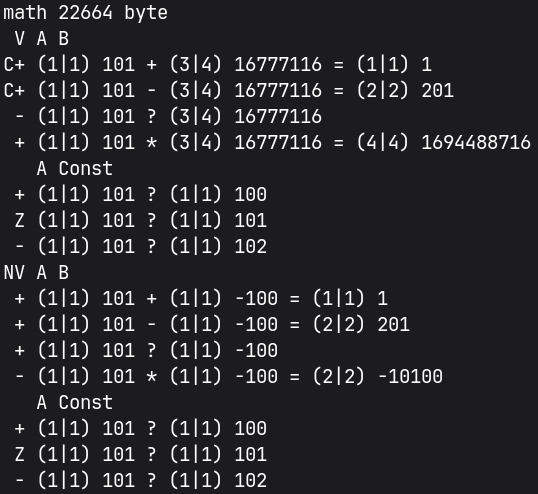
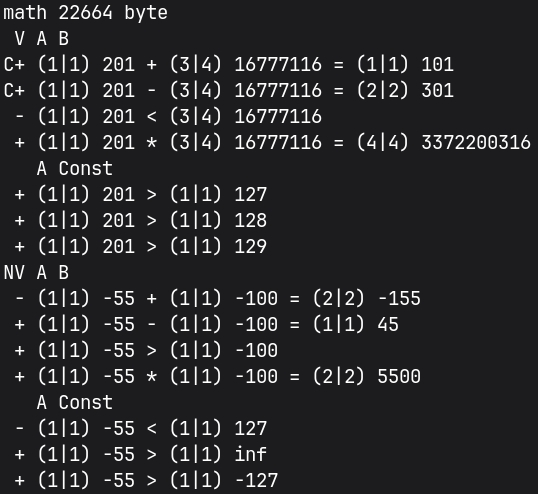
v17.4

diff --git a/main.c b/main.c
@@ -12,22 +12,23 @@
 #define m 128
 anu la,lb;
 
-void Num(anu s, an a) { anu ns, t[m]; if (s > 8) { printf(" %d|? ", s + 1); return; }
-  printf("(%d|%d) ", s + 1, (ns = FCOLD(Obe, s, (an)t, a)) + 1); a = (an)t; if (Mat.F == 2) { printf("inf "); return; }
-  if (Mat.Nim) { if (ns > 3) printf("%ld " , *(int64_t*)a); else if (ns > 1) printf("%d ", *(int32_t*)a);
+void Num(anu s, an a) { anu ns, t[m], f = Mat.F, n = Mat.N; if (s > 8) { printf(" %d|? ", s + 1); return; }
+  printf("(%d|%d) ", s + 1, (ns = FCOLD(Obe, s, (an)t, a)) + 1); a = (an)t; if (Mat.F == 2) printf("inf ");
+  else { if (Mat.Nim) { if (ns > 3) printf("%ld " , *(int64_t*)a); else if (ns > 1) printf("%d ", *(int32_t*)a);
     else if (ns) printf("%d ", *(int16_t*)a); else printf("%d ", *(int8_t*)a); }
   else { if (ns > 3) printf("%lu ", *(uint64_t*)a); else if (ns > 1) printf("%u ", *(uint32_t*)a);
-    else if (ns) printf("%u ", *(uint16_t*)a); else printf("%u ", *(uint8_t*)a); } }
+    else if (ns) printf("%u ", *(uint16_t*)a); else printf("%u ", *(uint8_t*)a); } } Mat.F = f; Mat.N = n; }
 void Show(char s) { Flong(la,lb); Mat.C = 0;
   if (s == '+') FAdd(Mat.R, Mat.A); else if (s == '-') FSub(Mat.R, Mat.A); else if (s == '*') FMul(Mat.R, Mat.A);
-  else if (s == '/') FDiv(Mat.R, Mat.A, Mat.E); else if (s == '?') FCmp(Mat.A); else FCmpc(Mat.A, 100);
-  printf("%c%c ", Mat.C ? 'C':' ', Mat.F ? (Mat.N ? 'I':'Z') : (Mat.N ? '-':'+')); Num(la, Mat.A);
-  if (s == 'c') printf("? "); else { printf("%c ", s); } Num(Mat.lb, Mat.b); if (s < '?') { printf("= "); Num(Mat.l, Mat.R);
-  if (s == '/') { printf("  %c ", Mat.Fe ? (Mat.Ne ? 'I':'Z') : (Mat.Ne ? '-':'+')); Num(Mat.le, Mat.E); } } printf("\n"); }
+  else if (s == '/') FDiv(Mat.R, Mat.A, Mat.E); else if (s == '?') FCmp(Mat.A); else FCmpc(Mat.A, 127);
+  printf("%c%c ", Mat.C ? 'C':' ', Mat.F ? Mat.N ? 'I':'Z':Mat.N ? '-':'+'); Num(la, Mat.A);
+  if (s == '?' || s == 'c') printf("%c ", Mat.N ? '<':Mat.F ? '=':'>'); else { if (s == 'c') printf("? "); else printf("%c ", s); }
+  Num(Mat.lb, Mat.b); if (s < '?') { printf("= "); Num(Mat.l, Mat.R); if (s == '/') {
+    printf("  %c ", Mat.Fe ? (Mat.Ne ? 'I':'Z') : (Mat.Ne ? '-':'+')); Num(Mat.le, Mat.E); } } printf("\n"); }
 void Const(void) { an sb; anu l, i = 2; printf("   A Const\n"); Show('c'); sb = Mat.B;
   Mat.B = Mat.b; l = lb; lb = Mat.lb; while(i--) { if (!++(*Mat.B) && lb) { (*(Mat.B + 1))++; } Show('?'); } Mat.B = sb; lb = l; }
 void Test(void) { printf("%c%c A B\n", Mat.Nim ? 'N':' ', Mat.V ? 'V':' '); Show('+'); Show('-'); Show('?'); Show('*'); Const(); }
 
 int main(void) { anu v = 1,a[m],b[m],e[m],r[m+m]; Faddr((As)r, (As)e, (As)a, (As)b);
-  Fini(0,v); la = Fbvi(Mat.A, 0,101); lb = Fvi(Mat.B, -100,255,255); Test();
+  Fini(0,v); la = Fbvi(Mat.A, -55); lb = Fvi(Mat.B, -100,255,255); Test();
   Fset(1,v); la = Fmov(la, Mat.A); lb = Fmov(lb, Mat.B); Test(); return 0; }

diff --git a/math.c b/math.c
@@ -73,7 +73,7 @@ void FSUB(an r, an a, anu l, an b) { Mat.N = l; Mat.r = r; Mat.a = a; Mat.b = b;
   if (!Mat.V && Mat.l < Mat.N) { Mat.be = Mat.b + Mat.N;
     while(*Mat.be-- == Mat.nb && Mat.N && !((*Mat.be ^ Mat.nb) & 128)) { Mat.N--; }
     if (Mat.l < Mat.N) { if (Mat.Nim) { Mat.F = 2; Mat.N = 255; Mat.C = 0; Mat.i = Mat.l;
-      while(Mat.i--) { *Mat.r++ = 0; } *Mat.r = 128; return; } Mat.j++; Mat.N = Mat.l; } }
+      while(Mat.i--) { *Mat.r++ = 0; } *Mat.r = 128; return; } Mat.j = 4; Mat.N = Mat.l; } }
   Mat.be = Mat.b; Mat.i = (Mat.F > Mat.N) ? Mat.N:Mat.F; Mat.F -= Mat.i; Mat.N -= Mat.i;
   Mat.C = (Mat.C != 0); do { Mat.x = *Mat.a++; Mat.y = (*Mat.ae++ = Mat.x - *Mat.be++ - Mat.C);
     Mat.C = (Mat.x < Mat.y) || (Mat.C && Mat.y == Mat.x); } while(Mat.i--);
@@ -89,12 +89,13 @@ void FSUB(an r, an a, anu l, an b) { Mat.N = l; Mat.r = r; Mat.a = a; Mat.b = b;
       Mat.N = (!Mat.i && Mat.y == 128) ? Mat.N:~Mat.N; Mat.F = (!(Mat.i | Mat.y | Mat.N));
       *++Mat.ae = Mat.N; } if (Mat.C || Mat.j) { Mat.F = 2; Mat.N = 255; Mat.C = 0;
       Mat.i = (Mat.l = Mat.V ? 0:Mat.l); while(Mat.i--) { *Mat.r++ = 0; } *Mat.r = 128;
-      return; } }  Mat.C |= Mat.j; if (!Mat.V && Mat.x < Mat.l) { Mat.i = Mat.l - Mat.x;
+      return; } }  Mat.C |= (Mat.j == 4); if (!Mat.V && Mat.x < Mat.l) { Mat.i = Mat.l - Mat.x;
     do *++Mat.ae = Mat.N; while(--Mat.i); return; } Mat.l = Mat.x; }
 
 anu FCMP(an a, anu l, an b) { Mat.k = Mat.C; Mat.t = Mat.l; Mat.C = 0; FSUB((an)Mat.S, a, l, b);
-  if (Mat.F == 2) { Mat.N = (Mat.F = (Mat.j == 3)) ? 0: (Mat.j < 2) ? Mat.nb:~Mat.na; }
-  else { Mat.N -= Mat.C; } Mat.l = Mat.t; Mat.C = Mat.k; return Mat.N; }
+  if (!Mat.Nim) Mat.N -= Mat.C;
+  else { if (Mat.F == 2) Mat.N = (Mat.F = (Mat.j == 3)) ? 0:(Mat.j == 1) ? Mat.nb:(Mat.j == 2) ? ~Mat.na:~Mat.nb; }
+  Mat.l = Mat.t; Mat.C = Mat.k; return Mat.N; }
 
 void FMUL(an r, an a, anu l, an b) { Mat.N = l; Mat.r = r; Mat.a = a; Mat.b = b;
   Mat.F = Mat.l; Mat.x = *(Mat.ae = Mat.a + Mat.l); Mat.na = (Mat.Nim && (Mat.x & 128)) ? 255:0;

diff --git a/README.md b/README.md
@@ -17,7 +17,7 @@
 P.s.: Блокировку убрали как только добавил сообщение о ней на главную страницу, длилась минут 20 как я заметил и принял меры чтоб сообщить об этом Вам. Это сообщение останется (20.09.2026 ~16.00 по местному +7) как память, так, что буду стараться вопреки не востребованности в России по данной области дабы остальной народ мог этим воспользоваться. Проанализируйте события с момента как я вернулся в эту сферу (конец января 2026 выложен Products готовый полностью затем занялся Fresh в начале февраля 2026), всё это время обновлялся код и было забавно видеть на open.net новости - даже компании серьёзные их как озарило - так, что у меня нет желания и времени следить за соблюдением GPLv3 из России, если заметите нарушение лицензии, то гарантировано взаимовыгодное сотрудничество.
 
 <div align="center">
-  <h1>Результат запуска v17.3</h1>
+  <h1>Результат запуска v17.4</h1>
   
   <picture>
     <source media="(prefers-color-scheme: dark)" srcset="Plus/psb.jpeg">
